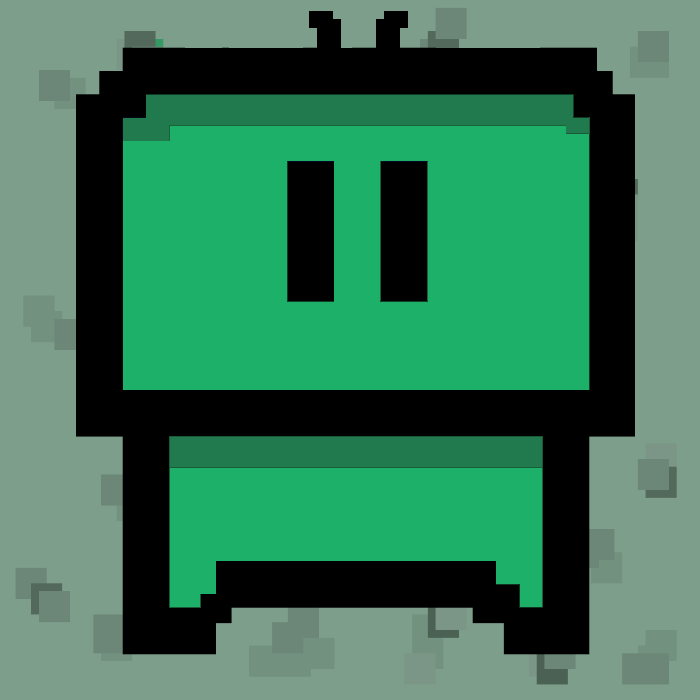
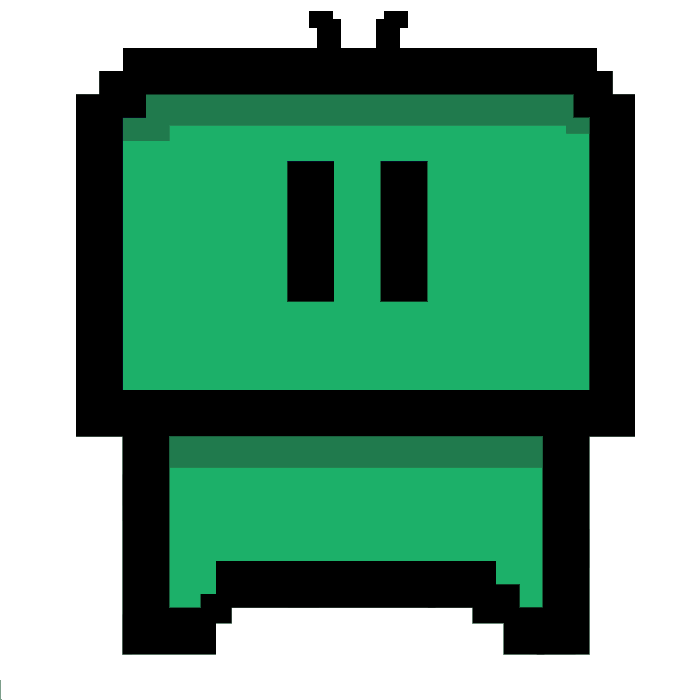
updated powerups

diff --git a/frontend/js/game_board/build_base.js b/frontend/js/game_board/build_base.js
@@ -30,10 +30,10 @@ async function buildBaseGrid(gameBoard) {
             background-image: url("/static/images/backgroundbrick1.png");
         }
         .speedy {
-          background-image: url("/static/images/brick.png");
+          background-image: url("/static/images/speedy.png");
         }
         .bombAmountIncrease {
-          background-image: url("/static/images/powerup.png");
+          background-image: url("/static/images/bombAmountIncrease.png");
         }
         .bombRangeIncrease {
           background-image: url("/static/images/powerup.png");
